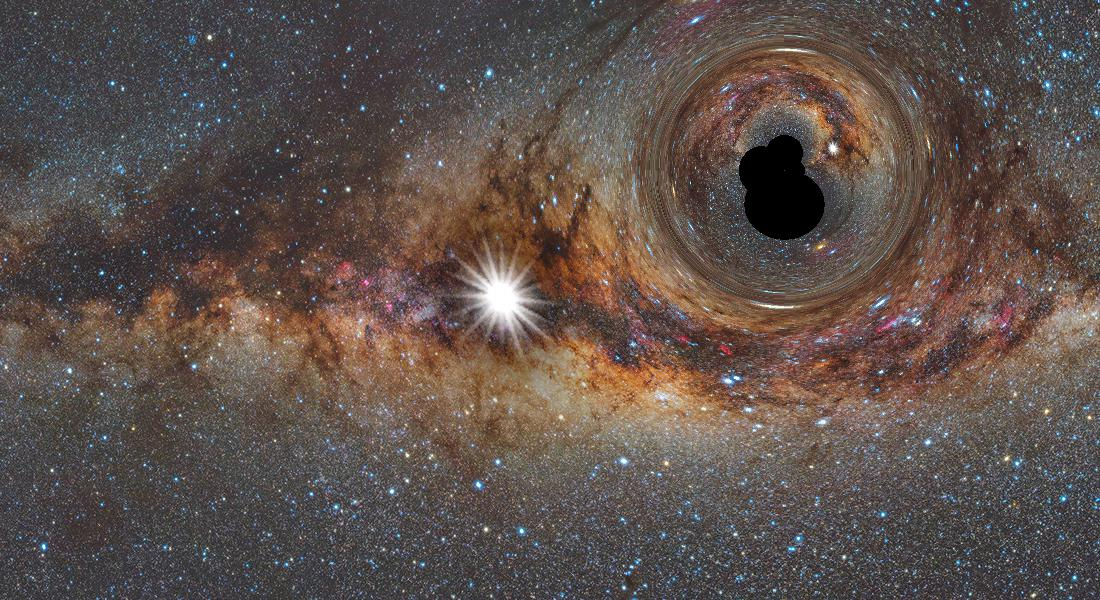
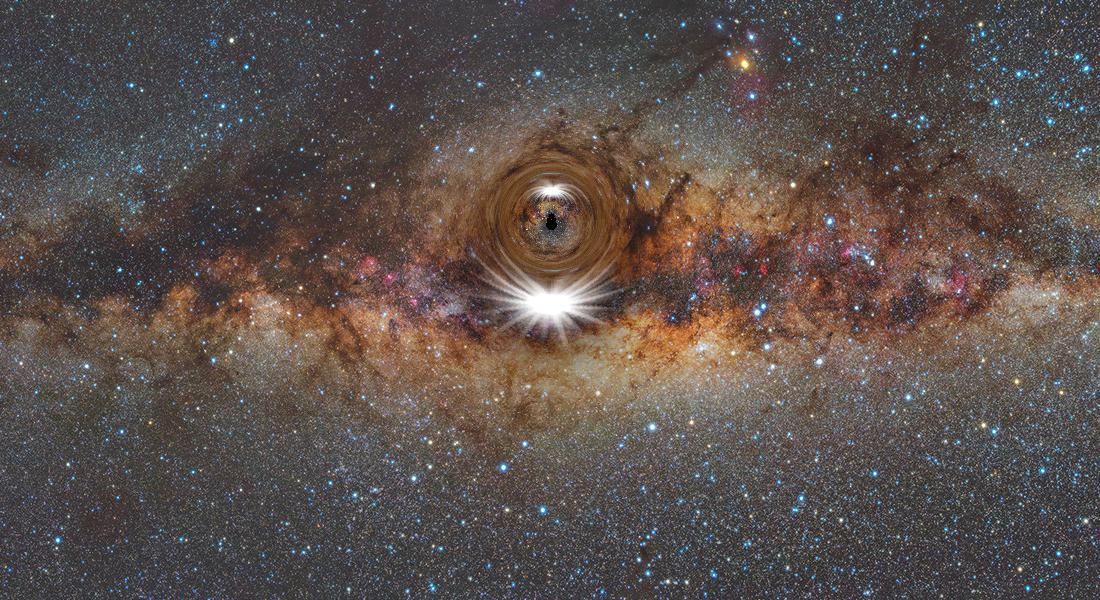
Now you cat @TheLensBot and it will lens a reply image\!, also the mass of the gravitational lens is now varying.

diff --git a/bot.js b/bot.js
@@ -9,6 +9,112 @@ var T = new Twit(config);
 
 const fileExists = require('file-exists');
 
+// 1st PROCESS: Reply with lensed images!
+
+var stream = T.stream('user');
+
+stream.on('tweet', tweetEvent)
+
+function tweetEvent(eventMsg) {
+  // WRITING JSON TO A FILE
+  var fs = require('fs');
+  var json = JSON.stringify(eventMsg, null,2);
+  fs.writeFile("tweet.json",json);
+
+  var AllImages = []
+  var AllImages_Lensed = []
+
+  var replyto = eventMsg.in_reply_to_screen_name;
+  var text = eventMsg.text;
+  var nameID = eventMsg.id_str;
+  var from = eventMsg.user.screen_name;
+
+  // Finding their image(s) / gif 1st image (need to test video)
+  if (replyto == 'TheLensBot' && eventMsg.extended_entities != null) {
+    for (i = 0; i < eventMsg.extended_entities.media.length; i++) {
+      var type = eventMsg.extended_entities.media[i].type;
+      if (type == 'photo') {
+        console.log(type);
+      }
+      var pictureLink = eventMsg.extended_entities.media[i].media_url_https;
+      AllImages.push(pictureLink)
+    }
+  }
+
+  // Finding re-tweet image(s) / gif 1st image (need to test video)
+  if (replyto == 'TheLensBot' && eventMsg.quoted_status != null) {
+    for (i = 0; i < eventMsg.quoted_status.extended_entities.media.length; i++) {
+      var type = eventMsg.quoted_status.extended_entities.media[i].type;
+      if (type == 'photo') {
+        console.log(type);
+      }
+      var pictureLink = eventMsg.quoted_status.extended_entities.media[i].media_url_https;
+      AllImages.push(pictureLink)
+    }
+  }
+
+  console.log(AllImages)
+  console.log('successfully found images');
+
+  imageLocationStr = ''
+  for (i = 0; i < AllImages.length; i++) {
+    imageLocationStr = imageLocationStr+ ' '+AllImages[i]
+    AllImages_Lensed.push('./pictures/Image'+i+'_Lensed.jpg')
+  }
+
+  cmd = 'python ./lensImage.py ' + AllImages.length + imageLocationStr
+
+  if (AllImages_Lensed.length > 0) {
+    // Running all lensing processes lensImage.py for all attached images
+    exec(cmd,tweetImages)
+  }
+
+  function tweetImages() {
+    console.log('1: lensImage.py program run for all images. If they exist, they were downloaded and lensed in Python.')
+
+    console.log(AllImages_Lensed)
+
+    for (i = 0; i < AllImages_Lensed.length; i++) {
+      // Reading in image
+      filename = AllImages_Lensed[i]
+      var params = {
+        encoding: 'base64'
+      }
+      var b64 = fs.readFileSync(filename, params);
+      console.log('2: Image imported with readFileSync.')
+
+      // uploading media to account
+      T.post('media/upload', {media_data: b64}, uploaded);
+
+      function uploaded(err, data, response) {
+        if (err) {
+          console.log(err);
+        } else {
+          var id = data.media_id_string;
+          var tweet = {
+            status: '@'+from+' Here\'s some extra gravity for the situation!',
+            media_ids: [id],
+            in_reply_to_status_id: nameID
+          }
+          T.post('statuses/update', tweet, tweeted);
+
+          function tweeted(err, data, response) {
+              if (err) {
+                console.log("Error appeared!");
+                console.log(response);
+              } else {
+                console.log("3: Tweet successful!");
+              }
+            }
+        }
+      }
+    }
+  }
+}
+
+
+// 2nd PROCESS: Lens the AstroPicOfTheDay!
+
 // Gets APOD Image, and if it exists it will lenses It, and tweet it.
 mainAPOD()
 // Running mainAPOD every 24 hours
@@ -51,7 +157,7 @@ function tweetAPOD(err, exists) {
       } else {
         var id = data.media_id_string;
         var tweet = {
-          status: 'A lensed astro picture of the day! #apod #CodingRainbow',
+          status: 'A gravitationally lensed #astro picture of the day! #apod #CodingRainbow '+ getDateLinkAPOD(),
           media_ids: [id]
         }
         T.post('statuses/update', tweet, tweeted);
@@ -59,6 +165,7 @@ function tweetAPOD(err, exists) {
         function tweeted(err, data, response) {
             if (err) {
               console.log("Error appeared!");
+              console.log(response);
             } else {
               console.log("3: Tweet successful!");
             }
@@ -66,4 +173,15 @@ function tweetAPOD(err, exists) {
       }
     }
   }
+}
+
+function getDateLinkAPOD() {
+  var date = new Date();
+
+  var yearCut = date.getFullYear() - 2000;
+  var month = date.getMonth() + 1;
+  var day = date.getDate();
+  var siteDite = 'https://apod.nasa.gov/apod/ap'+yearCut +''+ month +''+ day + '.html';
+
+  return siteDite;
 }

diff --git a/lensImage.py b/lensImage.py
@@ -1,0 +1,123 @@
+# PULLING IMAGE DOWN FROM APOD WEBSITE
+from bs4 import BeautifulSoup
+import requests
+import re
+import urllib2
+import os
+import cookielib
+import json
+import sys
+
+
+arguments = sys.argv
+DIR = "./pictures"
+number_of_images = int(arguments[1])
+
+for i in range(number_of_images):
+    print 'running download and lens script on image #', i
+
+    url = arguments[i+2]
+    ImageToBeSaved = os.path.join(DIR , "Image"+str(i)+".jpg")
+    LensedImageToBeSaved = os.path.join(DIR , "Image"+str(i)+"_Lensed.jpg")
+
+    ## delete only if file exists
+    if os.path.exists(ImageToBeSaved):
+        os.remove(ImageToBeSaved)
+        print "The old %s file was deleted." % ImageToBeSaved
+    else:
+        print "The %s file did not exist." % ImageToBeSaved
+
+    header = {'User-Agent':"Mozilla/5.0 (Windows NT 6.1; WOW64) AppleWebKit/537.36 (KHTML, like Gecko) Chrome/43.0.2357.134 Safari/537.36"}
+
+    if not os.path.exists(DIR):
+        os.mkdir(DIR)
+
+    img = url
+
+    try:
+        req = urllib2.Request(img, headers={'User-Agent' : header})
+        raw_img = urllib2.urlopen(req).read()
+
+        f = open(ImageToBeSaved, 'wb')
+
+        f.write(raw_img)
+        f.close()
+        foundImage = 1
+
+    except Exception as e:
+        print "could not load : "+img
+        print e
+        foundImage = 0
+
+
+    # GRAVITATIONAL LENSING
+    import numpy as np
+    import matplotlib.pyplot as plt
+    from scipy import misc
+    import astropy.units as u
+    import random
+
+    def SourceCoord_vals(x,y):
+        #Position x,y on lensed image
+
+        #radius from x,y to deflector x_def,y_def
+        r = ((x-x_def)**2 + (y-y_def)**2)**0.5 * plate_scale_val
+
+        # theta, angle from x,y to deflector
+        theta = np.arctan(r/d_s_val)
+
+        #beta, angle from x,y to source
+        beta = theta - theta_E_val**2 / theta
+
+        #radius from source to deflector
+        r_sou = np.copysign(np.tan(beta) * d_s_val / plate_scale_val, np.tan(beta))
+
+        #source x and y positions
+        x_sou = x_def + r_sou * plate_scale_val*(x-x_def)/r
+        y_sou = y_def + r_sou * plate_scale_val*(y-y_def)/r
+
+        #magnification
+        mu = 1/(1 - (theta_E_val/theta)**4)
+
+        #returns source x and y positions
+        if (x == x_def) & (y == y_def):
+            return x_def,y_def
+        else:
+            return int(x_sou), int(y_sou)
+
+
+    if foundImage:
+        image1 = misc.imread(ImageToBeSaved)
+
+        n_x_pix = len(image1)
+        n_y_pix = len(image1[0])
+
+        G = 6.67408 * 10**-11 * u.m**3 /( u.kg * u.s**2)
+        c = 3 * 10**8 * u.m / u.s
+        M = random.randint(10**15, 10**16) * u.kg
+
+        x_def = random.randint(n_x_pix*1/4,n_x_pix*3/4)
+        y_def = random.randint(n_y_pix*1/4,n_y_pix*3/4)
+
+        d_d = 3.5 *10**40 * u.lyr
+        d_ds = 3.5 *10**30 * u.lyr
+        d_s = d_d + d_ds
+
+        plate_scale = (.25 * u.pc).to(u.lyr)
+
+        theta_E = (np.sqrt(4 * G * M * d_ds / (d_d * d_s * c**2)) * u.rad).decompose()
+
+        d_s_val = d_s.value # Light Years
+        plate_scale_val = plate_scale.value # lyr/pixel
+        theta_E_val = theta_E.value
+
+        print 'Einstein Radius:',(theta_E_val * d_s_val / (plate_scale_val)), 'pixels'
+
+        image2 = np.zeros([n_x_pix,n_y_pix,3])
+        for i in range(n_x_pix):
+            for j in range(n_y_pix):
+                x_sou, y_sou = SourceCoord_vals(i, j)
+                if (x_sou<n_x_pix) & (x_sou>0) & (y_sou<n_y_pix) & (y_sou>0) == True:
+                    image2[i][j] = image1[x_sou][y_sou]
+
+        misc.imsave(LensedImageToBeSaved, image2)

diff --git a/lensAPOD.py b/lensAPOD.py
@@ -107,7 +107,7 @@ if foundImage:
 
     G = 6.67408 * 10**-11 * u.m**3 /( u.kg * u.s**2)
     c = 3 * 10**8 * u.m / u.s
-    M = 10**16 * u.kg
+    M = random.randint(10**15, 10**16) * u.kg
 
     x_def = random.randint(n_x_pix*1/4,n_x_pix*3/4)
     y_def = random.randint(n_y_pix*1/4,n_y_pix*3/4)
